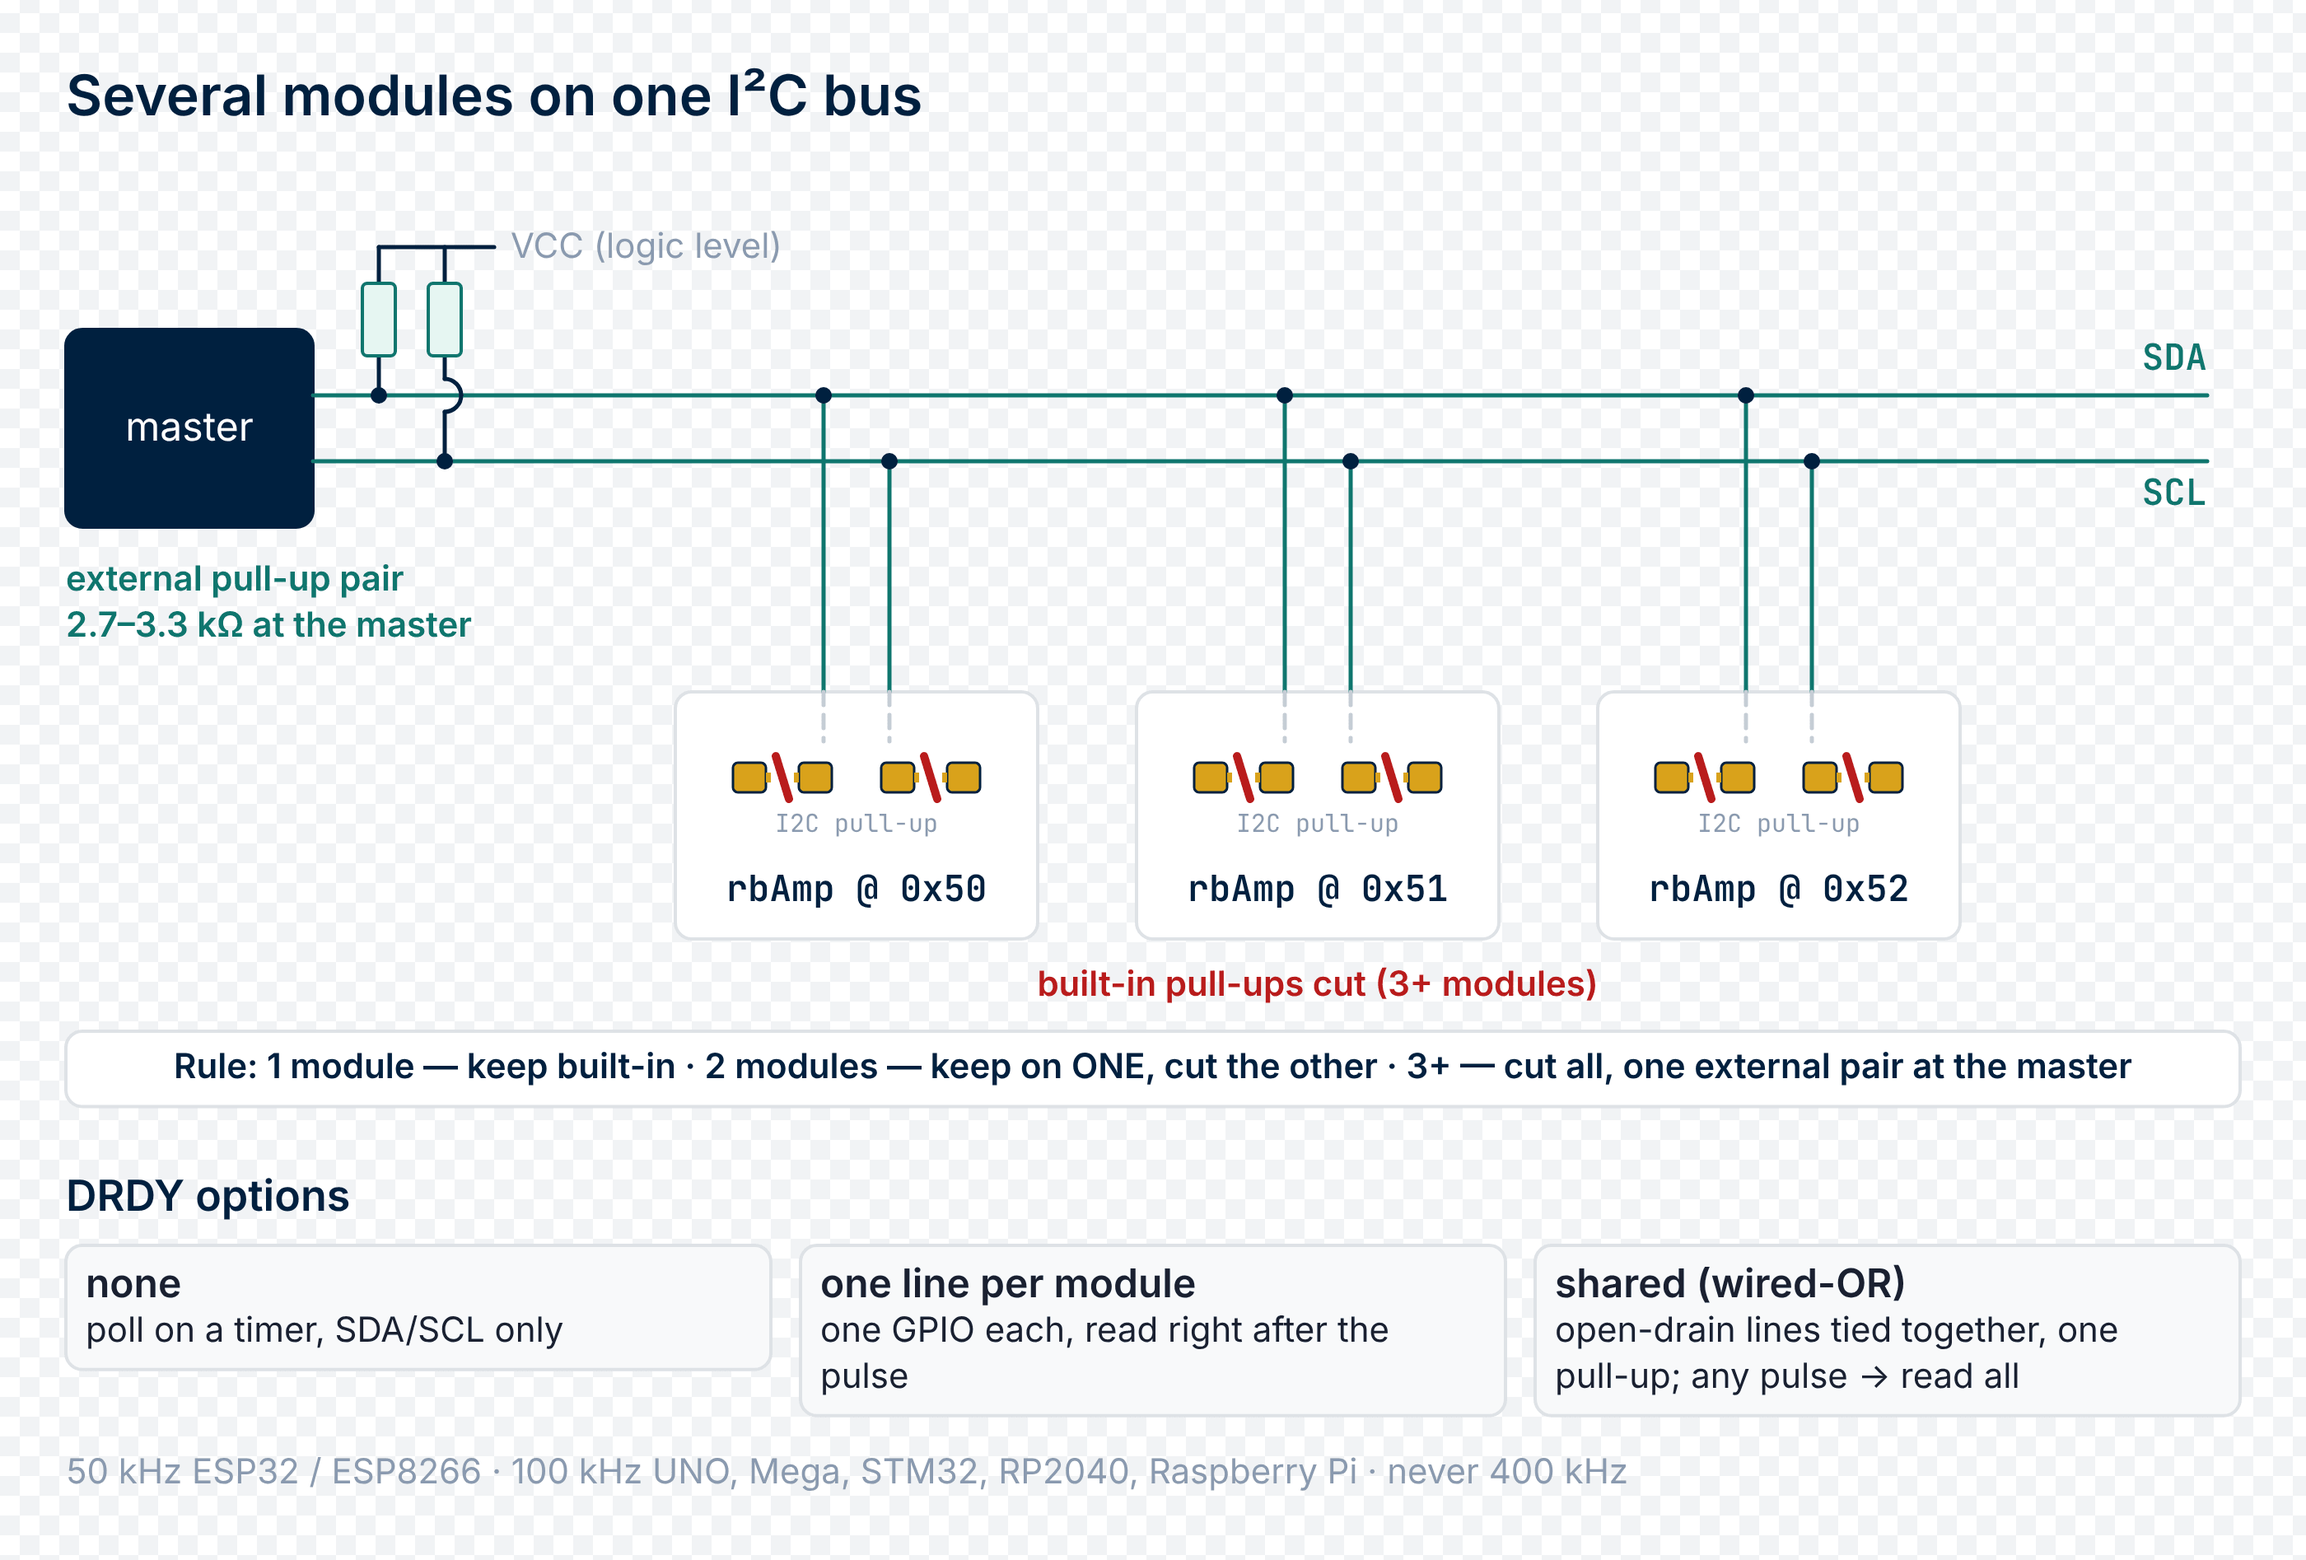
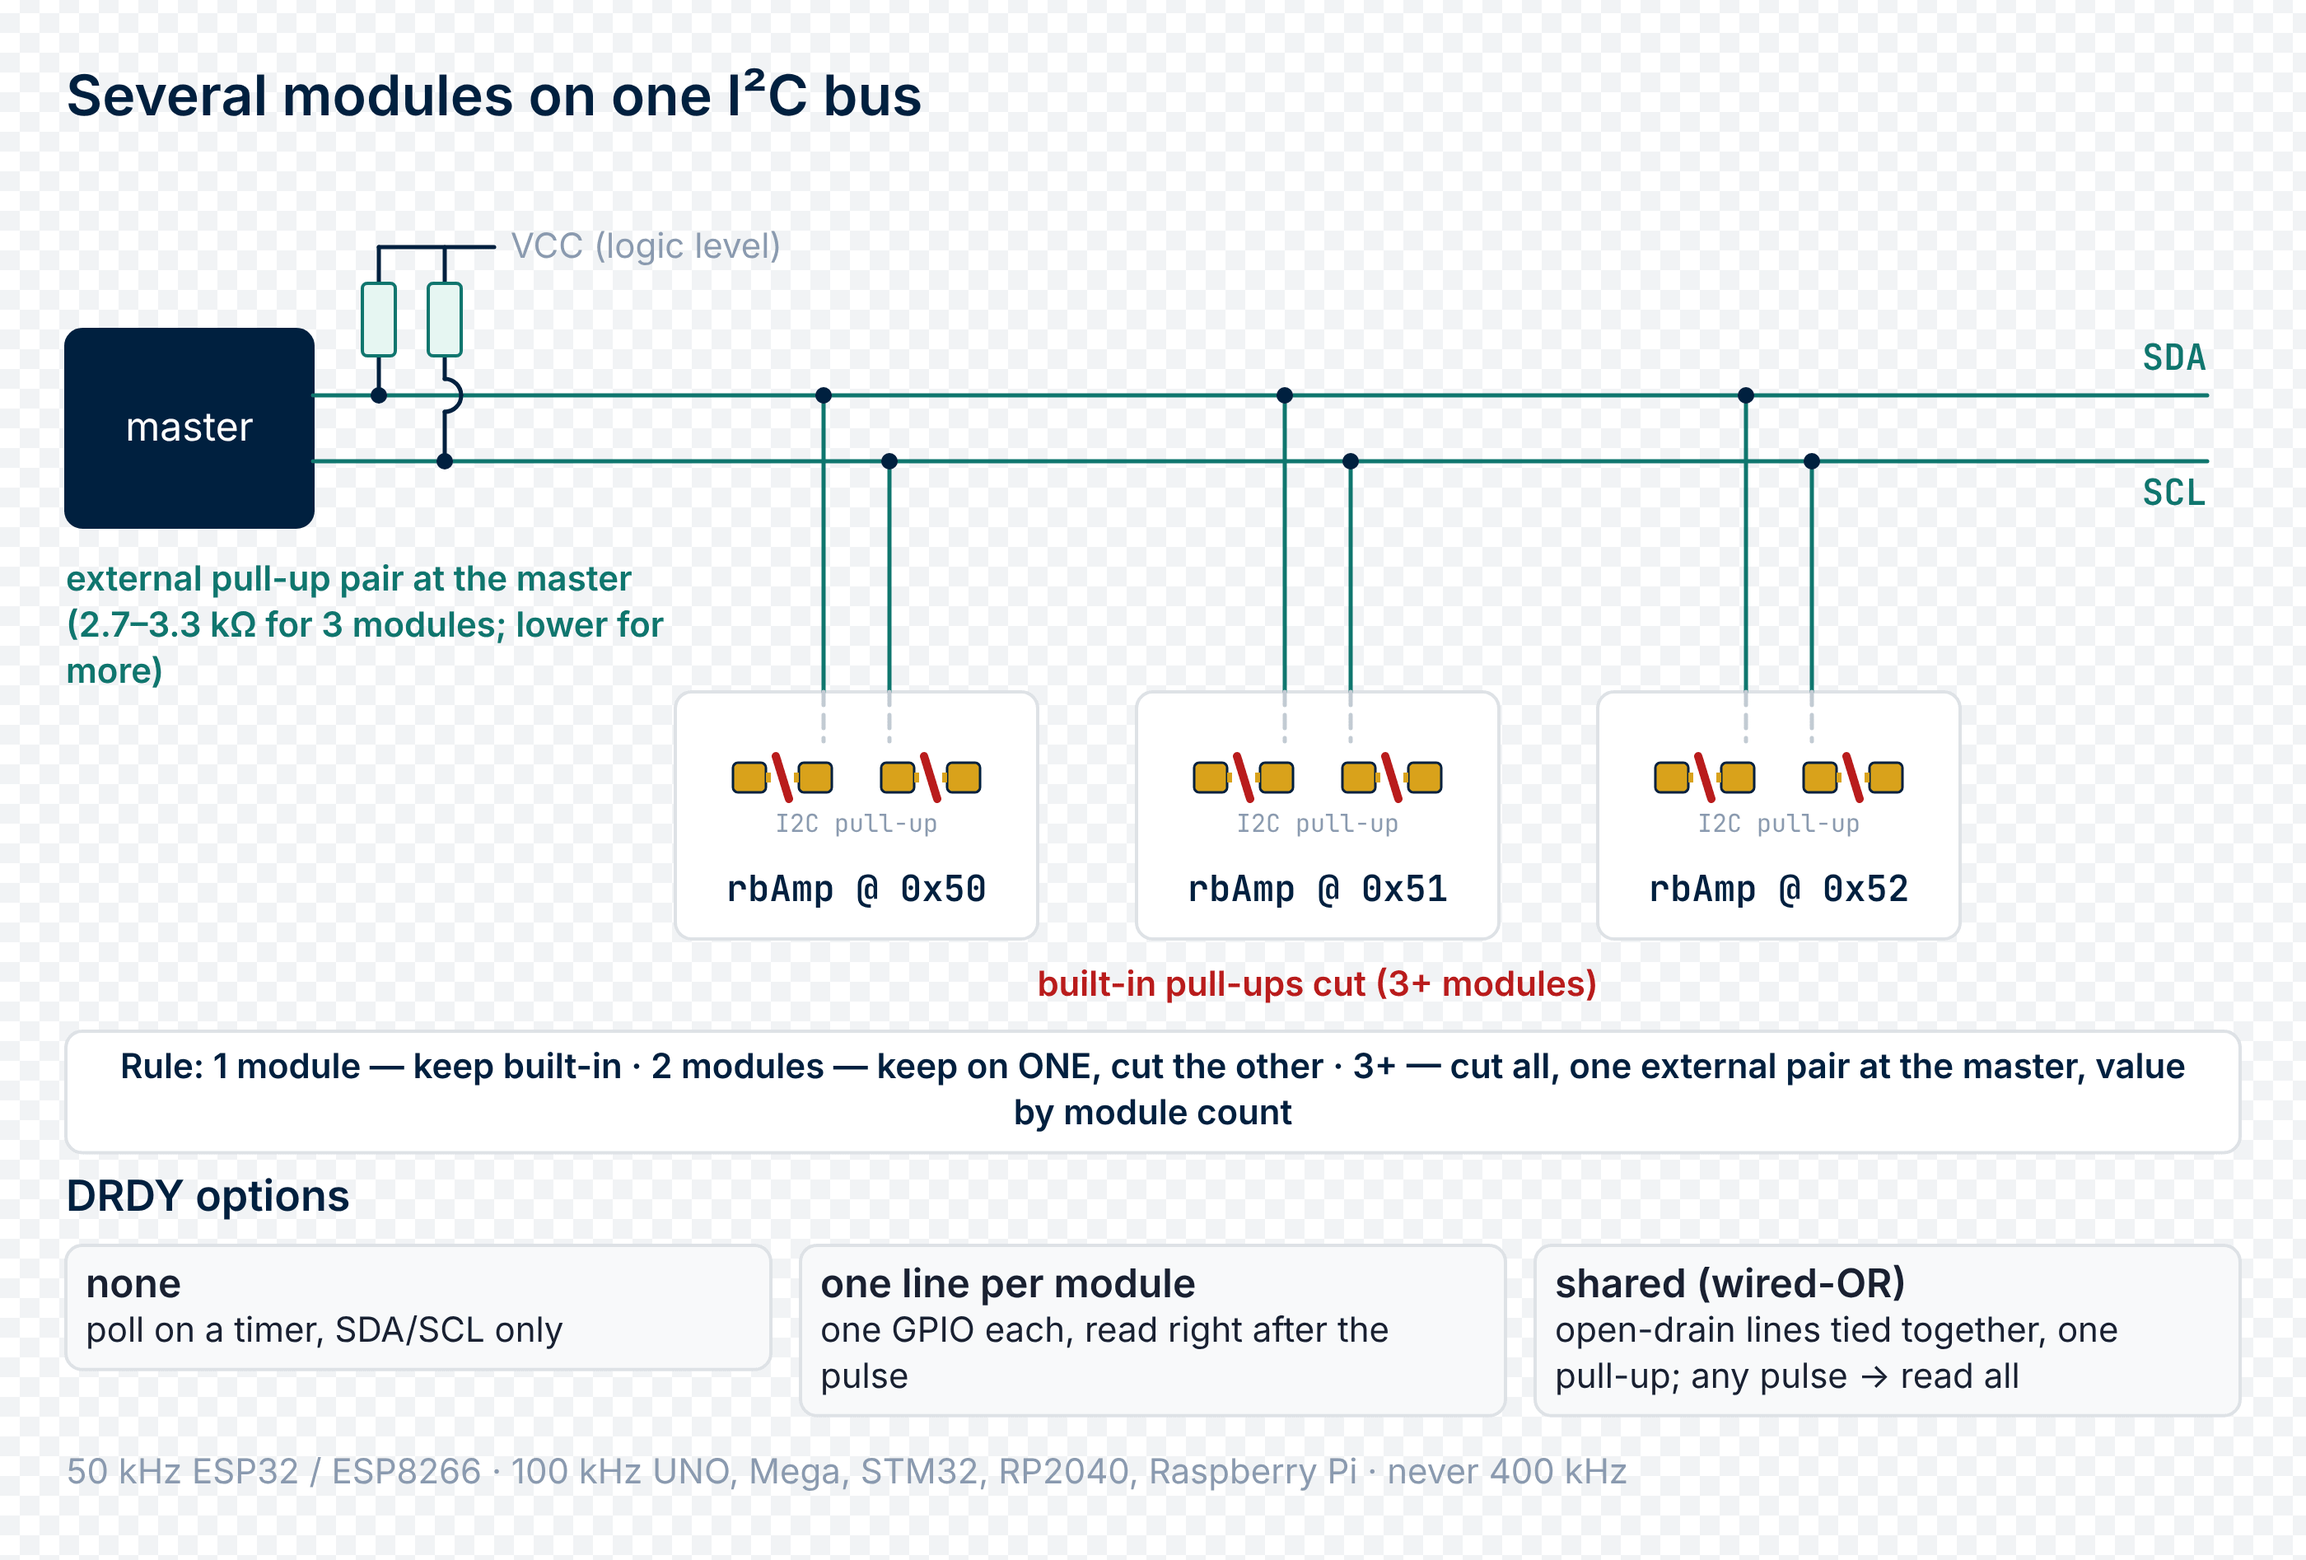
docs: corrected pictures (supply 4.5-5.5 V, pull-up values by module count)

Changed region(s): [[0.0621, 0.6542, 0.9632, 0.7476], [0.0311, 0.3427, 0.2796, 0.4361]]

diff --git a/components/rbamp/registry.py b/components/rbamp/registry.py
@@ -81,7 +81,7 @@ def _load_from_yaml() -> Tuple[
 
 def _load_from_generated():
     """Same registry, from ``sensor_models_gen.py`` generated next to this file
-    (the stand-alone component has no monorepo YAML)."""
+    (the stand-alone component has no model YAML file)."""
     from . import sensor_models_gen as gen
 
     class_by_code = {

diff --git a/docs/04_hardware.md b/docs/04_hardware.md
@@ -86,7 +86,7 @@ The bottom side of each rbAmp PCB has solder jumpers labeled `Pull-Up`. Cutting 
 | 7..16 | Cut on all. One external pair of **1.5..2.2 kΩ** at the ESP32 + a bus-capacitance check (see below). | 1.5..2.2 kΩ |
 | ESP32 already provides pull-ups | Cut on all modules. The ESP32 internal pull-ups (≥50 kΩ) are weak — a long bus still needs external 2.2..4.7 kΩ. | as above |
 
-The external values are recommended values (calculated from the I²C specification: sink current ≤ 3 mA at 3.3 V, bus capacitance ≤ 400 pF).
+The external values are recommended values (calculated from the I²C specification: sink current ≤ 3 mA at 3.3 V, bus capacitance ≤ 400 pF). Connect the external pull-ups to **3.3 V** (the logic level of the bus), not to the 5 V `VCC` supply.
 
 ![I²C pull-up rules for one, two and three or more modules, with the solder jumper on the module and the bus speed per host.](images/i2c-pullup-rules.png)
 
